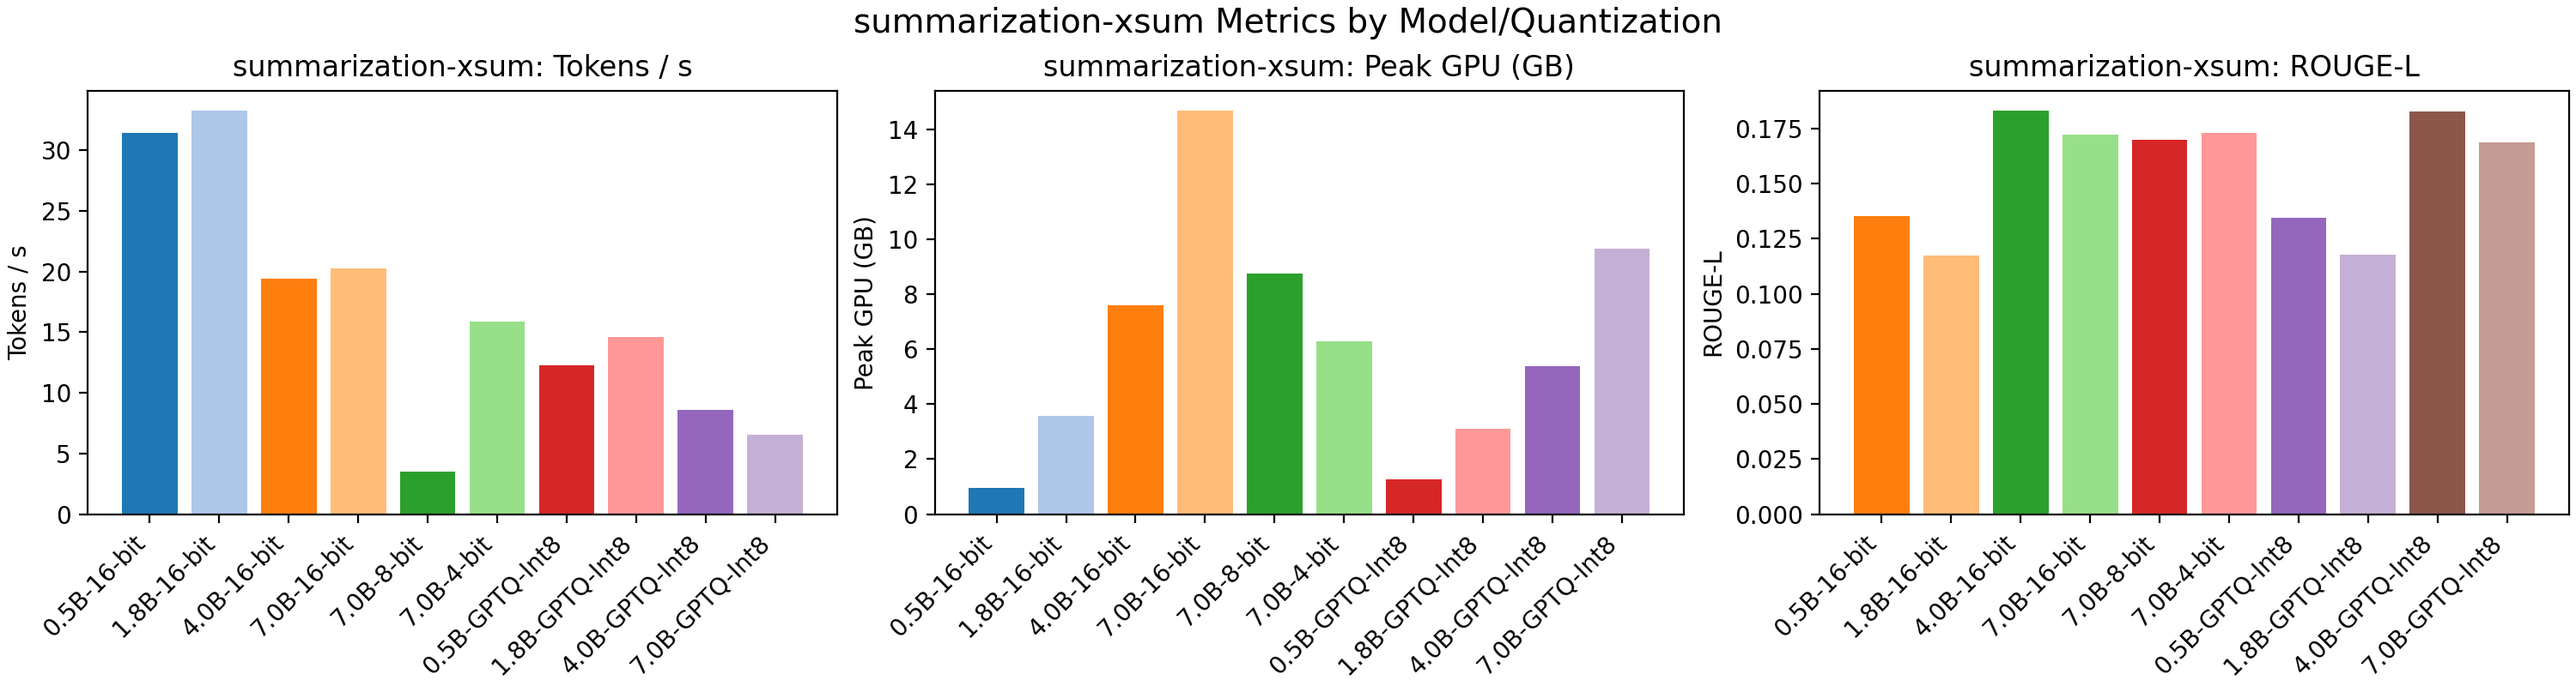
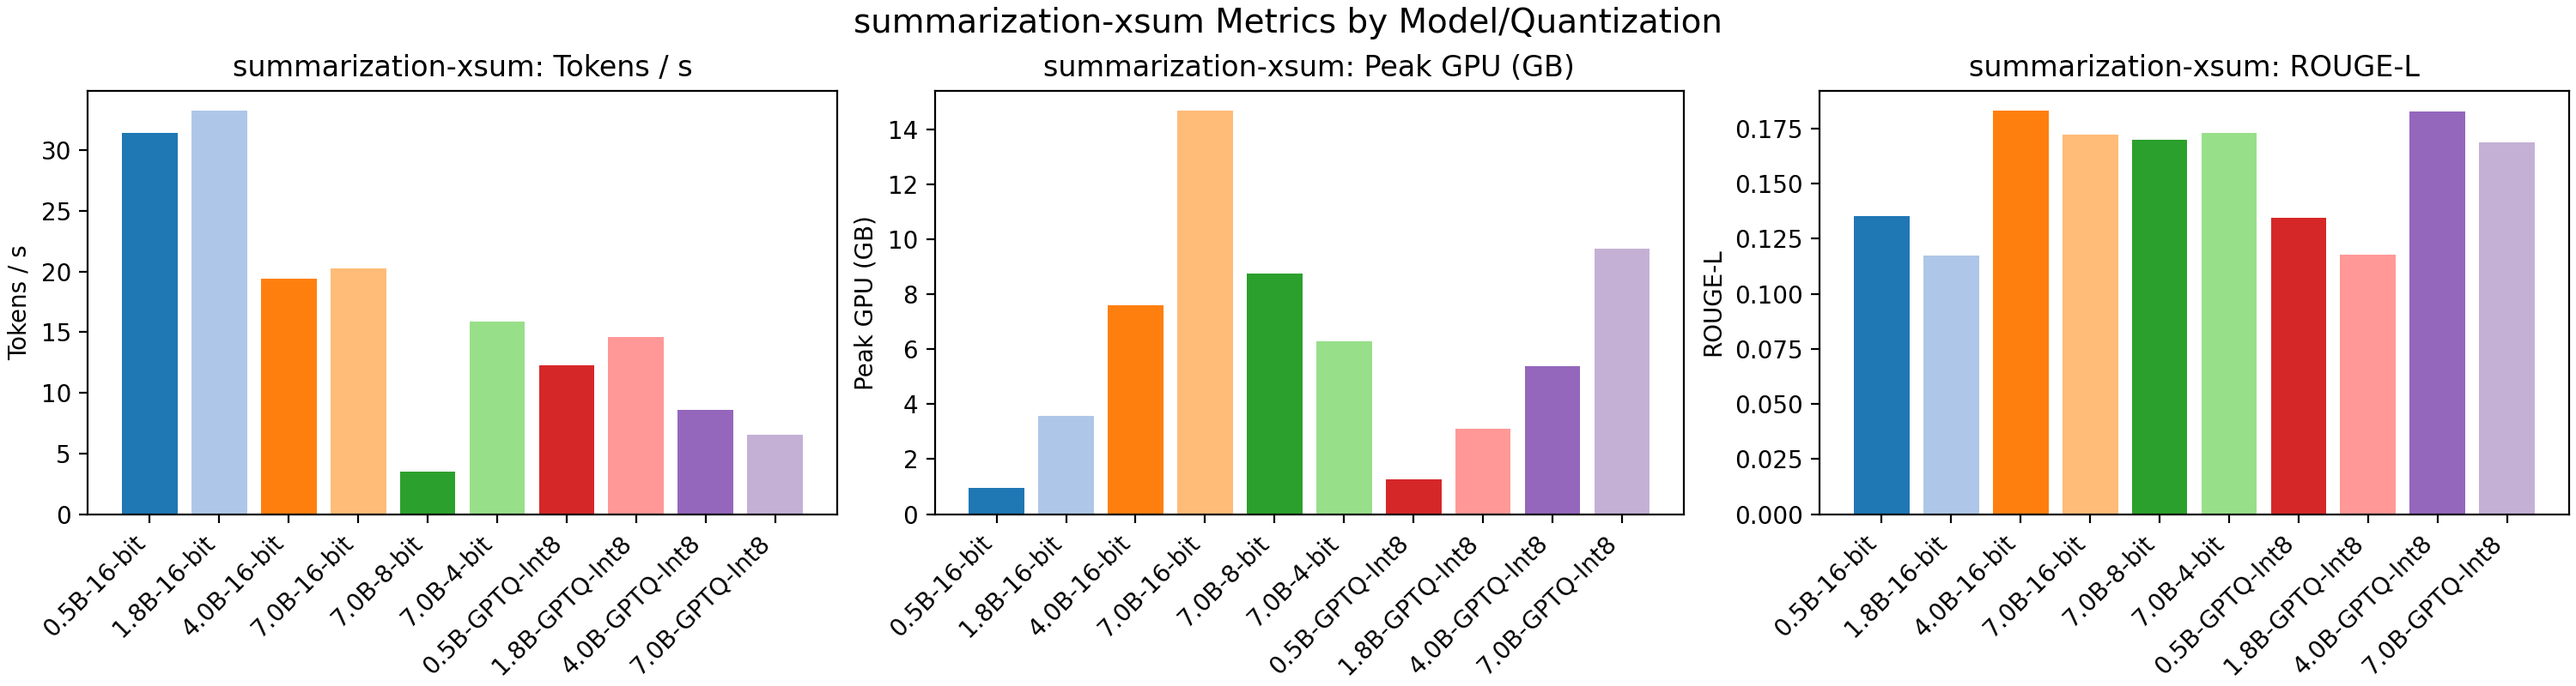
fix plot

Changed region(s): [[0.713, 0.1562, 0.992, 0.75]]

diff --git a/result/Qwen_compare/plot_summary.py b/result/Qwen_compare/plot_summary.py
@@ -63,6 +63,7 @@ def plot_task(df: pd.DataFrame, task: str, out_dir: Path):
         ("avg_peak_mem_gb", "Peak GPU (GB)"),
     ]
     task_df = df[df["task"] == task].copy()
+    palette = plt.cm.tab20.colors
     quant_order = {"FP/Native": 0, "16-bit": 0, "8-bit": 1, "4-bit": 2, "GPTQ-Int8": 3}
     task_df["quant_order"] = task_df["quant_label"].map(lambda x: quant_order.get(x, 4))
     task_df = task_df.sort_values(["quant_order", "model_size_b", "model"])
@@ -71,13 +72,14 @@ def plot_task(df: pd.DataFrame, task: str, out_dir: Path):
 
     labels = task_df["label"].tolist()
     x = range(len(task_df))
+    colors = [palette[i % len(palette)] for i in x]
 
     fig, axes = plt.subplots(1, len(metrics) + 1, figsize=(5 * (len(metrics) + 1), 4), constrained_layout=True)
     palette = plt.cm.tab20.colors
 
     for idx, (metric, title) in enumerate(metrics):
         ax = axes[idx]
-        ax.bar(x, task_df[metric], color=[palette[i % len(palette)] for i in x])
+        ax.bar(x, task_df[metric], color=colors)
         ax.set_title(f"{task}: {title}")
         ax.set_xticks(list(x))
         ax.set_xticklabels(labels, rotation=45, ha="right")
@@ -88,7 +90,7 @@ def plot_task(df: pd.DataFrame, task: str, out_dir: Path):
         metric_col = "rougeL"
         metric_title = "ROUGE-L"
     ax = axes[-1]
-    ax.bar(x, task_df[metric_col], color=[palette[(i + len(metrics)) % len(palette)] for i in x])
+    ax.bar(x, task_df[metric_col], color=colors)
     ax.set_title(f"{task}: {metric_title}")
     ax.set_xticks(list(x))
     ax.set_xticklabels(labels, rotation=45, ha="right")

diff --git a/result/kv_cache_compare/plot_summary.py b/result/kv_cache_compare/plot_summary.py
@@ -27,11 +27,12 @@ def plot_task(df: pd.DataFrame, task: str, out_dir: Path):
     task_df = task_df.sort_values(["kv_strategy", "model"])
     labels = task_df.apply(lambda r: f"{r['model']}\n{r['kv_strategy']}", axis=1)
     x = range(len(task_df))
-    fig, axes = plt.subplots(1, len(metrics) + 1, figsize=(5 * (len(metrics) + 1), 4), constrained_layout=True)
     palette = plt.cm.tab20.colors
+    colors = [palette[i % len(palette)] for i in x]
+    fig, axes = plt.subplots(1, len(metrics) + 1, figsize=(5 * (len(metrics) + 1), 4), constrained_layout=True)
     for idx, (metric, title) in enumerate(metrics):
         ax = axes[idx]
-        ax.bar(x, task_df[metric], color=[palette[i % len(palette)] for i in x])
+        ax.bar(x, task_df[metric], color=colors)
         ax.set_title(f"{task}: {title}")
         ax.set_xticks(list(x))
         ax.set_xticklabels(labels, rotation=45, ha="right")
@@ -42,7 +43,7 @@ def plot_task(df: pd.DataFrame, task: str, out_dir: Path):
         metric_col = "rougeL"
         metric_title = "ROUGE-L"
     ax = axes[-1]
-    ax.bar(x, task_df[metric_col], color=[palette[(i + len(metrics)) % len(palette)] for i in x])
+    ax.bar(x, task_df[metric_col], color=colors)
     ax.set_title(f"{task}: {metric_title}")
     ax.set_xticks(list(x))
     ax.set_xticklabels(labels, rotation=45, ha="right")

diff --git a/result/model_compare/plot_summary.py b/result/model_compare/plot_summary.py
@@ -40,10 +40,11 @@ def plot_per_task(df: pd.DataFrame, out_dir: Path):
         task_df = task_df.sort_values(["model"])
         labels = task_df["model"].tolist()
         x = range(len(task_df))
+        colors = [palette[i % len(palette)] for i in x]
         fig, axes = plt.subplots(1, len(metrics) + 1, figsize=(5 * (len(metrics) + 1), 4), constrained_layout=True)
         for idx, (metric, title) in enumerate(metrics):
             ax = axes[idx]
-            ax.bar(x, task_df[metric], color=[palette[i % len(palette)] for i in x])
+            ax.bar(x, task_df[metric], color=colors)
             ax.set_title(f"{task}: {title}")
             ax.set_xticks(list(x))
             ax.set_xticklabels(labels, rotation=45, ha="right")
@@ -54,7 +55,7 @@ def plot_per_task(df: pd.DataFrame, out_dir: Path):
             metric_col = "rougeL"
             metric_title = "ROUGE-L"
         ax = axes[-1]
-        ax.bar(x, task_df[metric_col], color=[palette[(i + len(metrics)) % len(palette)] for i in x])
+        ax.bar(x, task_df[metric_col], color=colors)
         ax.set_title(f"{task}: {metric_title}")
         ax.set_xticks(list(x))
         ax.set_xticklabels(labels, rotation=45, ha="right")
